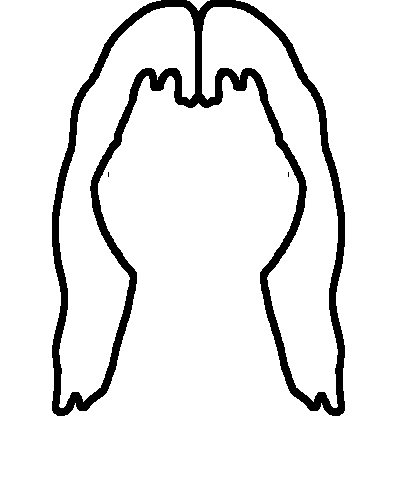
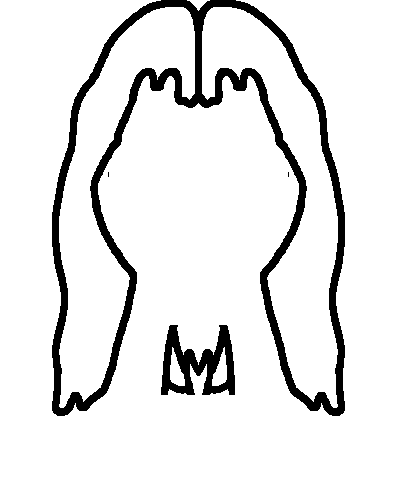
low heavy kitchen

Changed region(s): [[0.3929, 0.6429, 0.6045, 0.8265]]

diff --git a/resources/Obiekty.tsx b/resources/Obiekty.tsx
@@ -1,5 +1,5 @@
 <?xml version="1.0" encoding="UTF-8"?>
-<tileset version="1.10" tiledversion="1.10.2" name="Obiekty" tilewidth="1162" tileheight="725" tilecount="11" columns="0">
+<tileset version="1.10" tiledversion="1.10.2" name="Obiekty" tilewidth="1162" tileheight="725" tilecount="14" columns="0">
  <grid orientation="orthogonal" width="1" height="1"/>
  <tile id="0">
   <image width="506" height="677" source="credenss.png"/>
@@ -30,5 +30,17 @@
  </tile>
  <tile id="9">
   <image width="397" height="490" source="kitchenGirlHair.png"/>
+ </tile>
+ <tile id="10">
+  <image width="59" height="155" source="kitchenLampHang.png"/>
+ </tile>
+ <tile id="11">
+  <image width="59" height="44" source="kitchenLampBulb.png"/>
+ </tile>
+ <tile id="12">
+  <image width="279" height="99" source="kitchenLampClosh.png"/>
+ </tile>
+ <tile id="13">
+  <image width="397" height="498" source="kitchenGirlShirt.png"/>
  </tile>
 </tileset>
